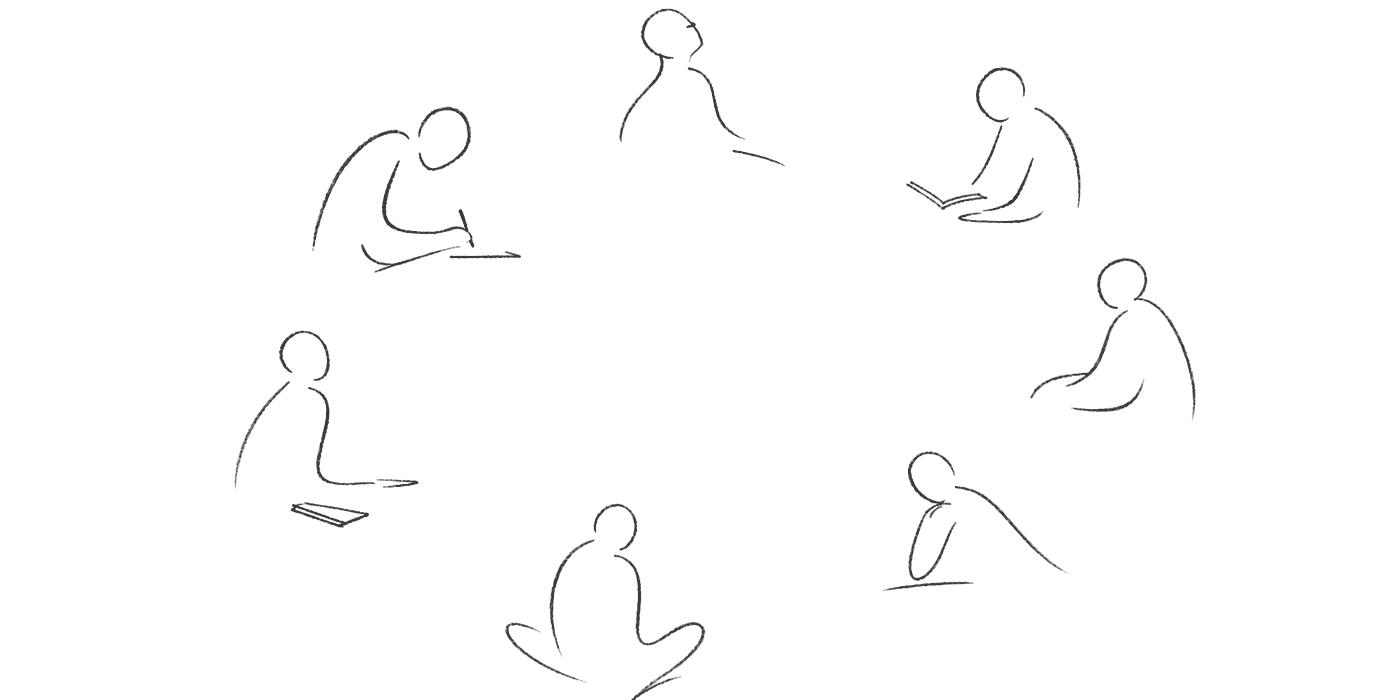
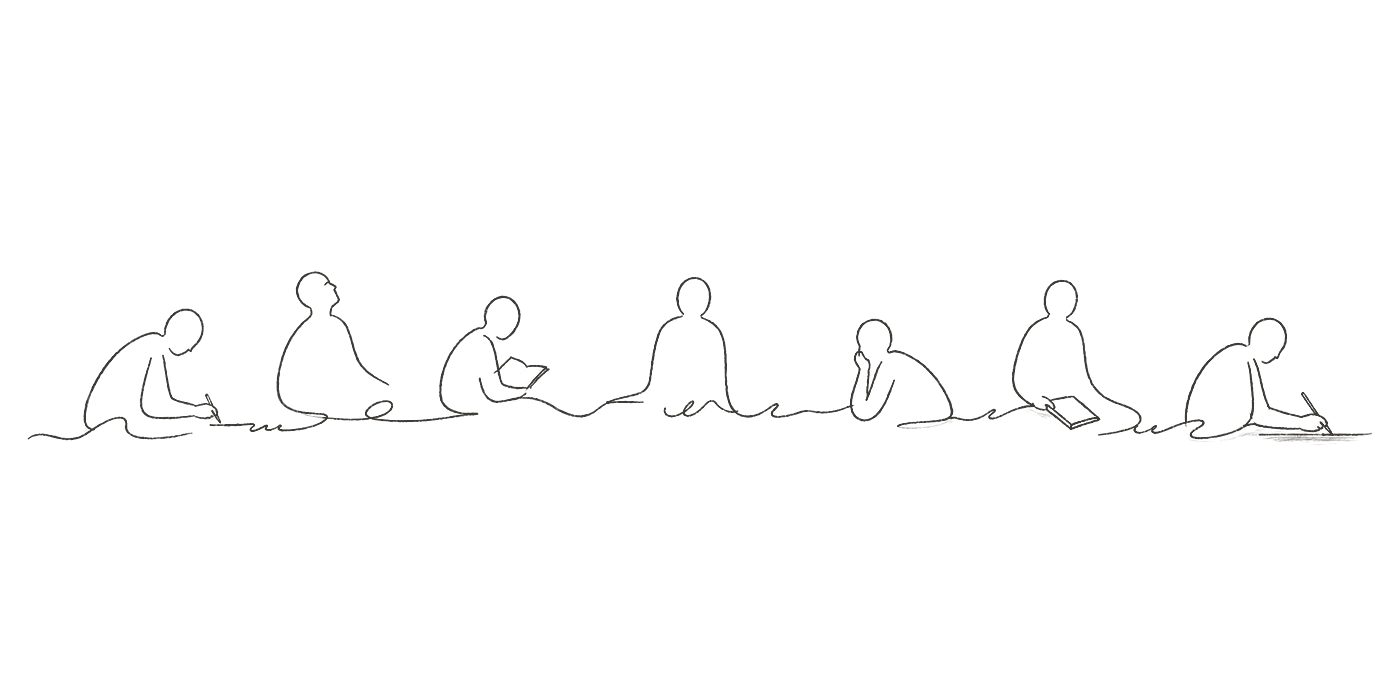
Refine gathering as horizontal writing field

diff --git a/src/components/TheProject.tsx b/src/components/TheProject.tsx
@@ -63,7 +63,7 @@ export const TheProject: React.FC = () => {
                 <figure className="mb-10 mt-12 aspect-[2/1] w-full overflow-hidden lg:mt-0">
                   <img
                     src={FUTURE_WRITING_SPACES_DRAWING}
-                    alt="Seven lightly drawn figures gather around a generous field of untouched paper."
+                    alt="Seven lightly drawn figures share a horizontal field of writing, reading, listening, and contemplation."
                     className="h-full w-full object-contain mix-blend-multiply"
                   />
                 </figure>